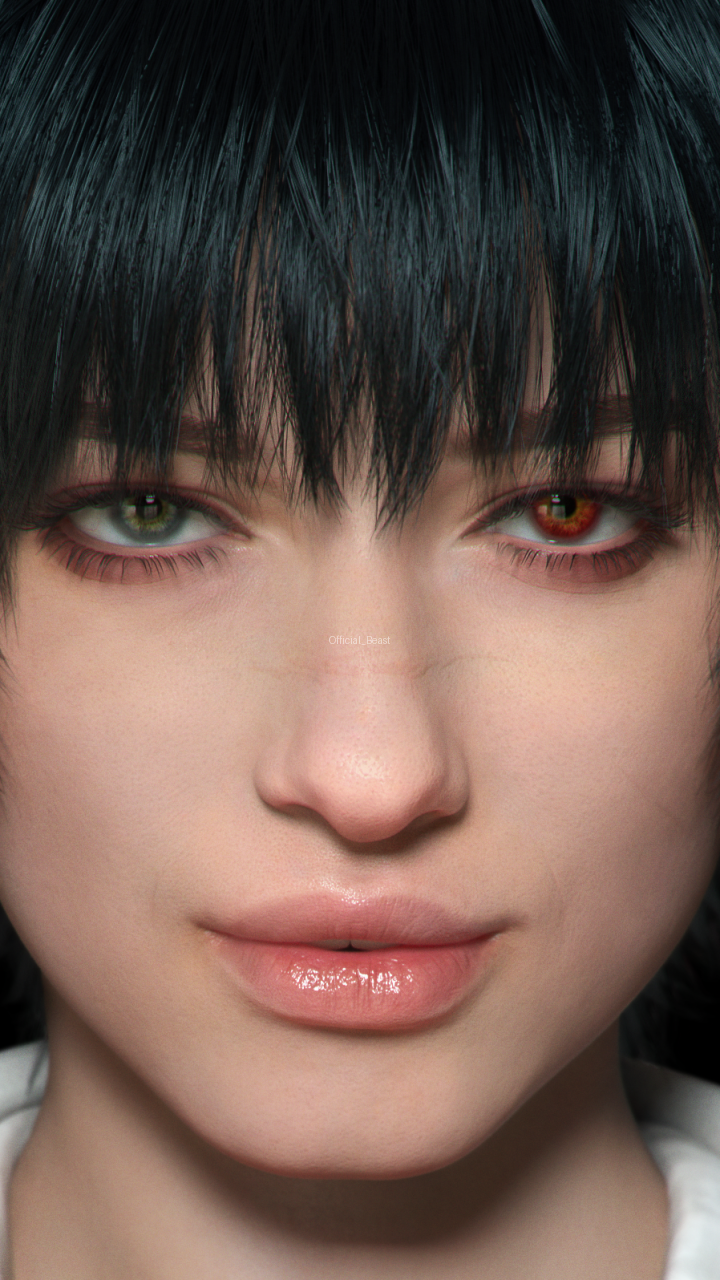
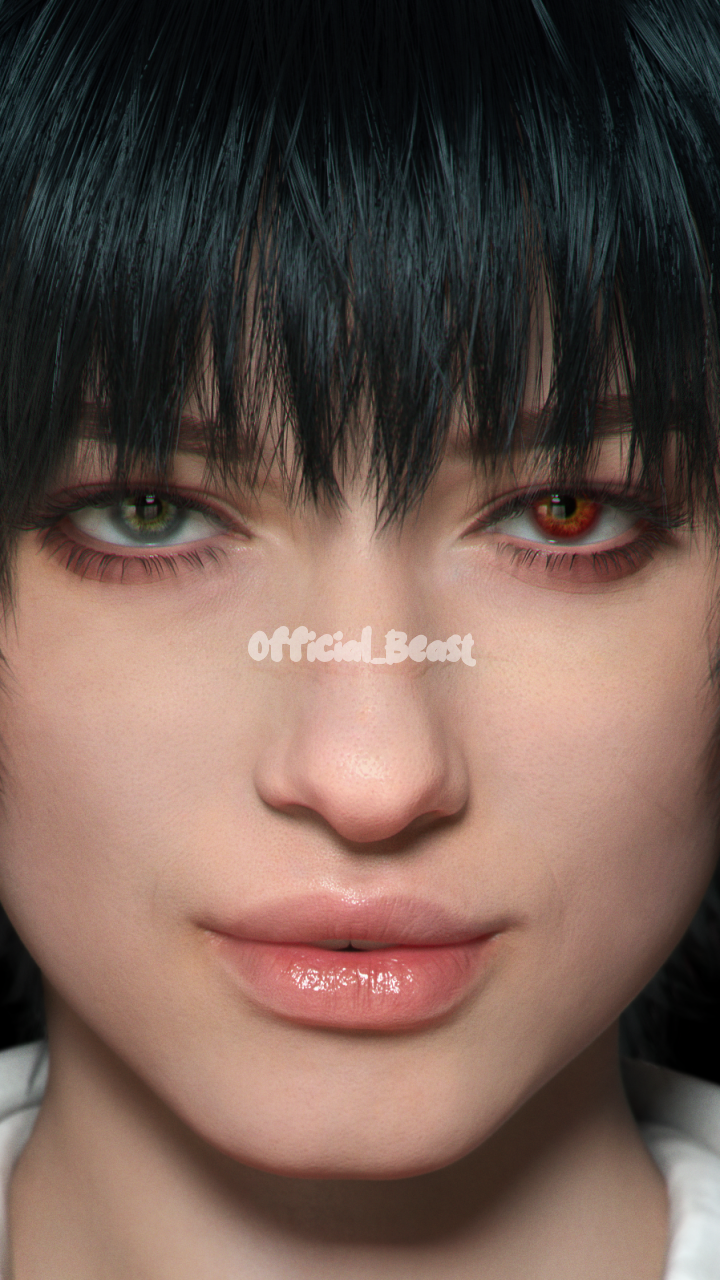
added font folder and as well as make some changes in main.py

Changed region(s): [[0.3361, 0.4688, 0.6722, 0.5312]]

diff --git a/main.py b/main.py
@@ -2,7 +2,7 @@
 from tkinter import  *
 from tkinter import filedialog
 from PIL import  Image, ImageDraw, ImageFont
-
+from random import  randint
 OUTPUT_PATH=r".\static\done_watermarking\image_with_watermark.png"
 WATERMARK_TEXT="Official_Beast"
 window = Tk()
@@ -37,7 +37,7 @@ def insert_watermark(input_image_path,output_image_path,watermark_text,font_size
     watermark = Image.new("RGBA", original_image.size, (255, 255, 255, 0))
 
     # Choose a font and size for the watermark
-    font = ImageFont.truetype("path/to/your/font.ttf", font_size)
+    font = ImageFont.truetype("./font\LoveDays-2v7Oe.ttf", font_size)
 
     # Create a drawing context for the watermark
     draw = ImageDraw.Draw(watermark)
@@ -45,12 +45,15 @@ def insert_watermark(input_image_path,output_image_path,watermark_text,font_size
     # Calculate the size of the watermark text
     text_size = draw.textbbox((0, 0), watermark_text, font)
 
-    # Calculate the position to center the watermark on the image
-    x = (original_image.width - text_size[2]) // 2
-    y = (original_image.height - text_size[3]) // 2
+    for i in range(6):
+        width_plus = randint(0, 6)
+        height_plus = randint(0, 6)
+        # Calculate the position to center the watermark on the image
+        x = (original_image.width + width_plus - text_size[2]) // 2
+        y = (original_image.height + height_plus - text_size[3] ) // 2
 
-    # Draw the watermark text on the transparent image
-    draw.text((x, y), watermark_text, font=font, fill=(255, 255, 255, 128))
+        # Draw the watermark text on the transparent image
+        draw.text((x, y), watermark_text, font=font, fill=(255, 255, 255, 128))
 
     # Composite the original image and the watermark
     watermarked_image = Image.alpha_composite(original_image.convert("RGBA"), watermark)
